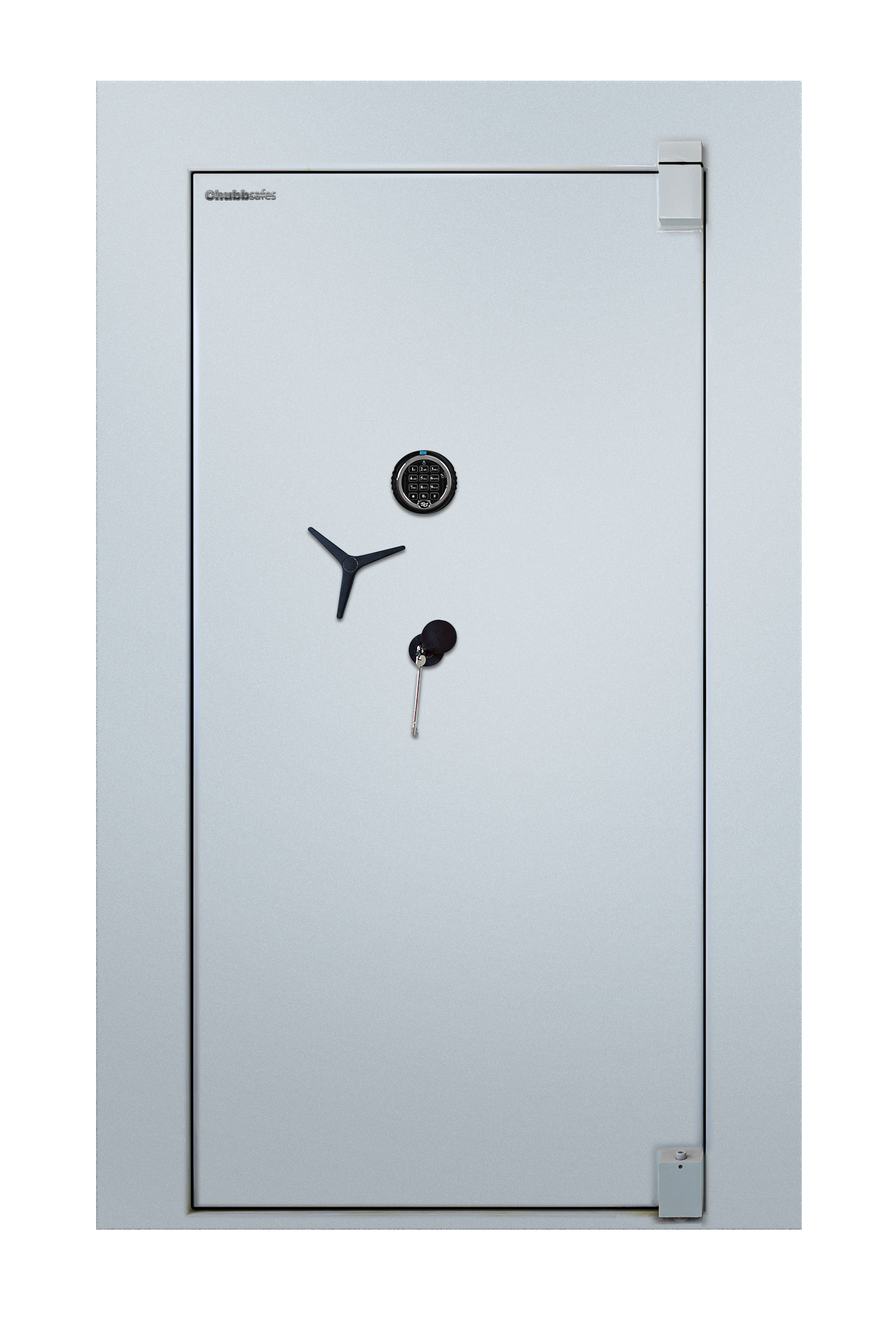
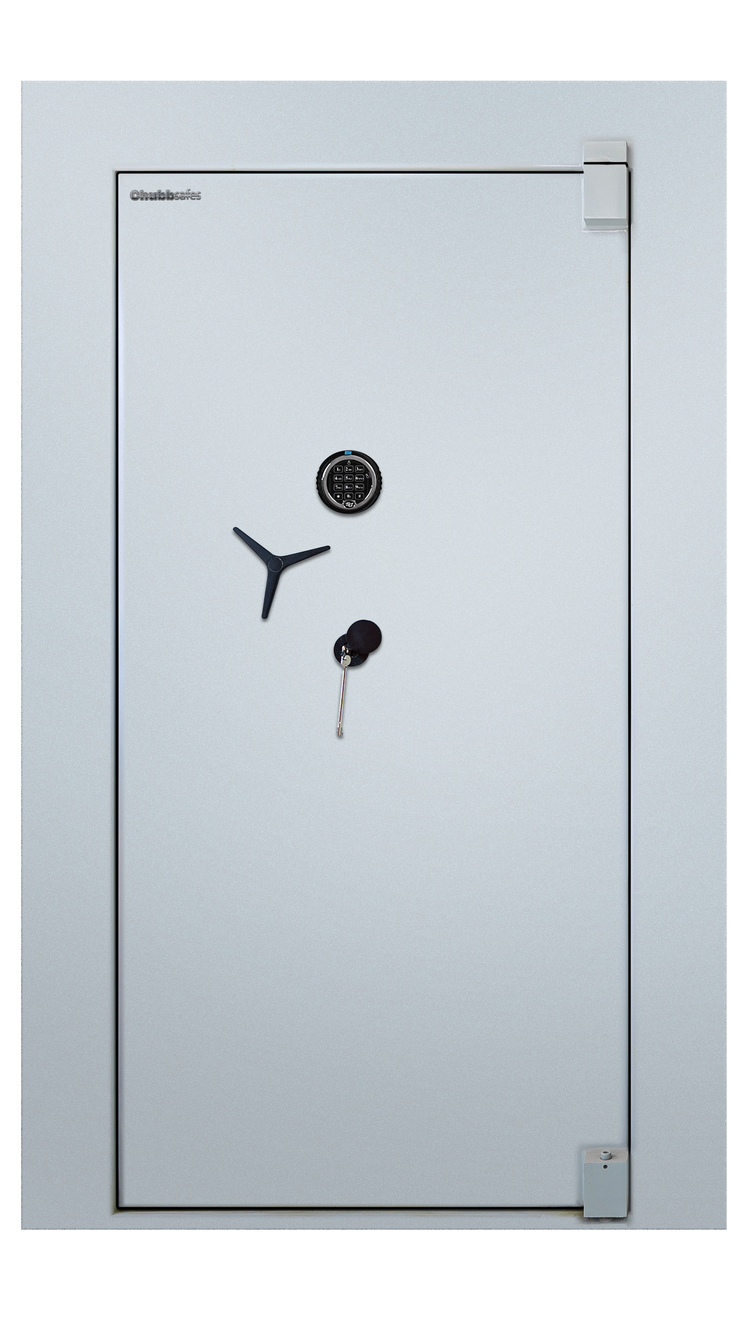
Fixed mobile view of the vault door product page.

diff --git a/Static HTML/single-vault-door-Chubb-2-modified.html b/Static HTML/single-vault-door-Chubb-2-modified.html
@@ -42,10 +42,10 @@
                 <!-- Main Image -->
                 <div class="main-image-display mb-md">
                     <img id="mainGalleryImage" src="../Products/Vault Doors/2inch Strongroom Door/Product Photos/2inch-hero-img.png"
-                        alt="2inch Strongroom Door" style="width: 681px; height: 1205px; object-fit: cover;">
+                        alt="2inch Strongroom Door" style="width: 60%; height: auto; object-fit: cover;">
                 </div>
                 <!-- Thumbnails -->
-                <div class="gallery-thumbnails grid" style="grid-template-columns: repeat(3, 1fr); gap: 10px; width: 100%;">
+                <div class="gallery-thumbnails grid" style="grid-template-columns: repeat(3, 1fr); gap: 10px; width: 25%; height:25%; margin: auto;">
                     <div class="thumbnail active" onclick="updateGallery(document.getElementById('mainGalleryImage'),this, '../Products/Vault Doors/2inch Strongroom Door/Product Photos/2inch-hero-img.png')">
                         <img src="../Products/Vault Doors/2inch Strongroom Door/Product Photos/2inch-hero-img.png" alt="Thumb 1">
                     </div>
